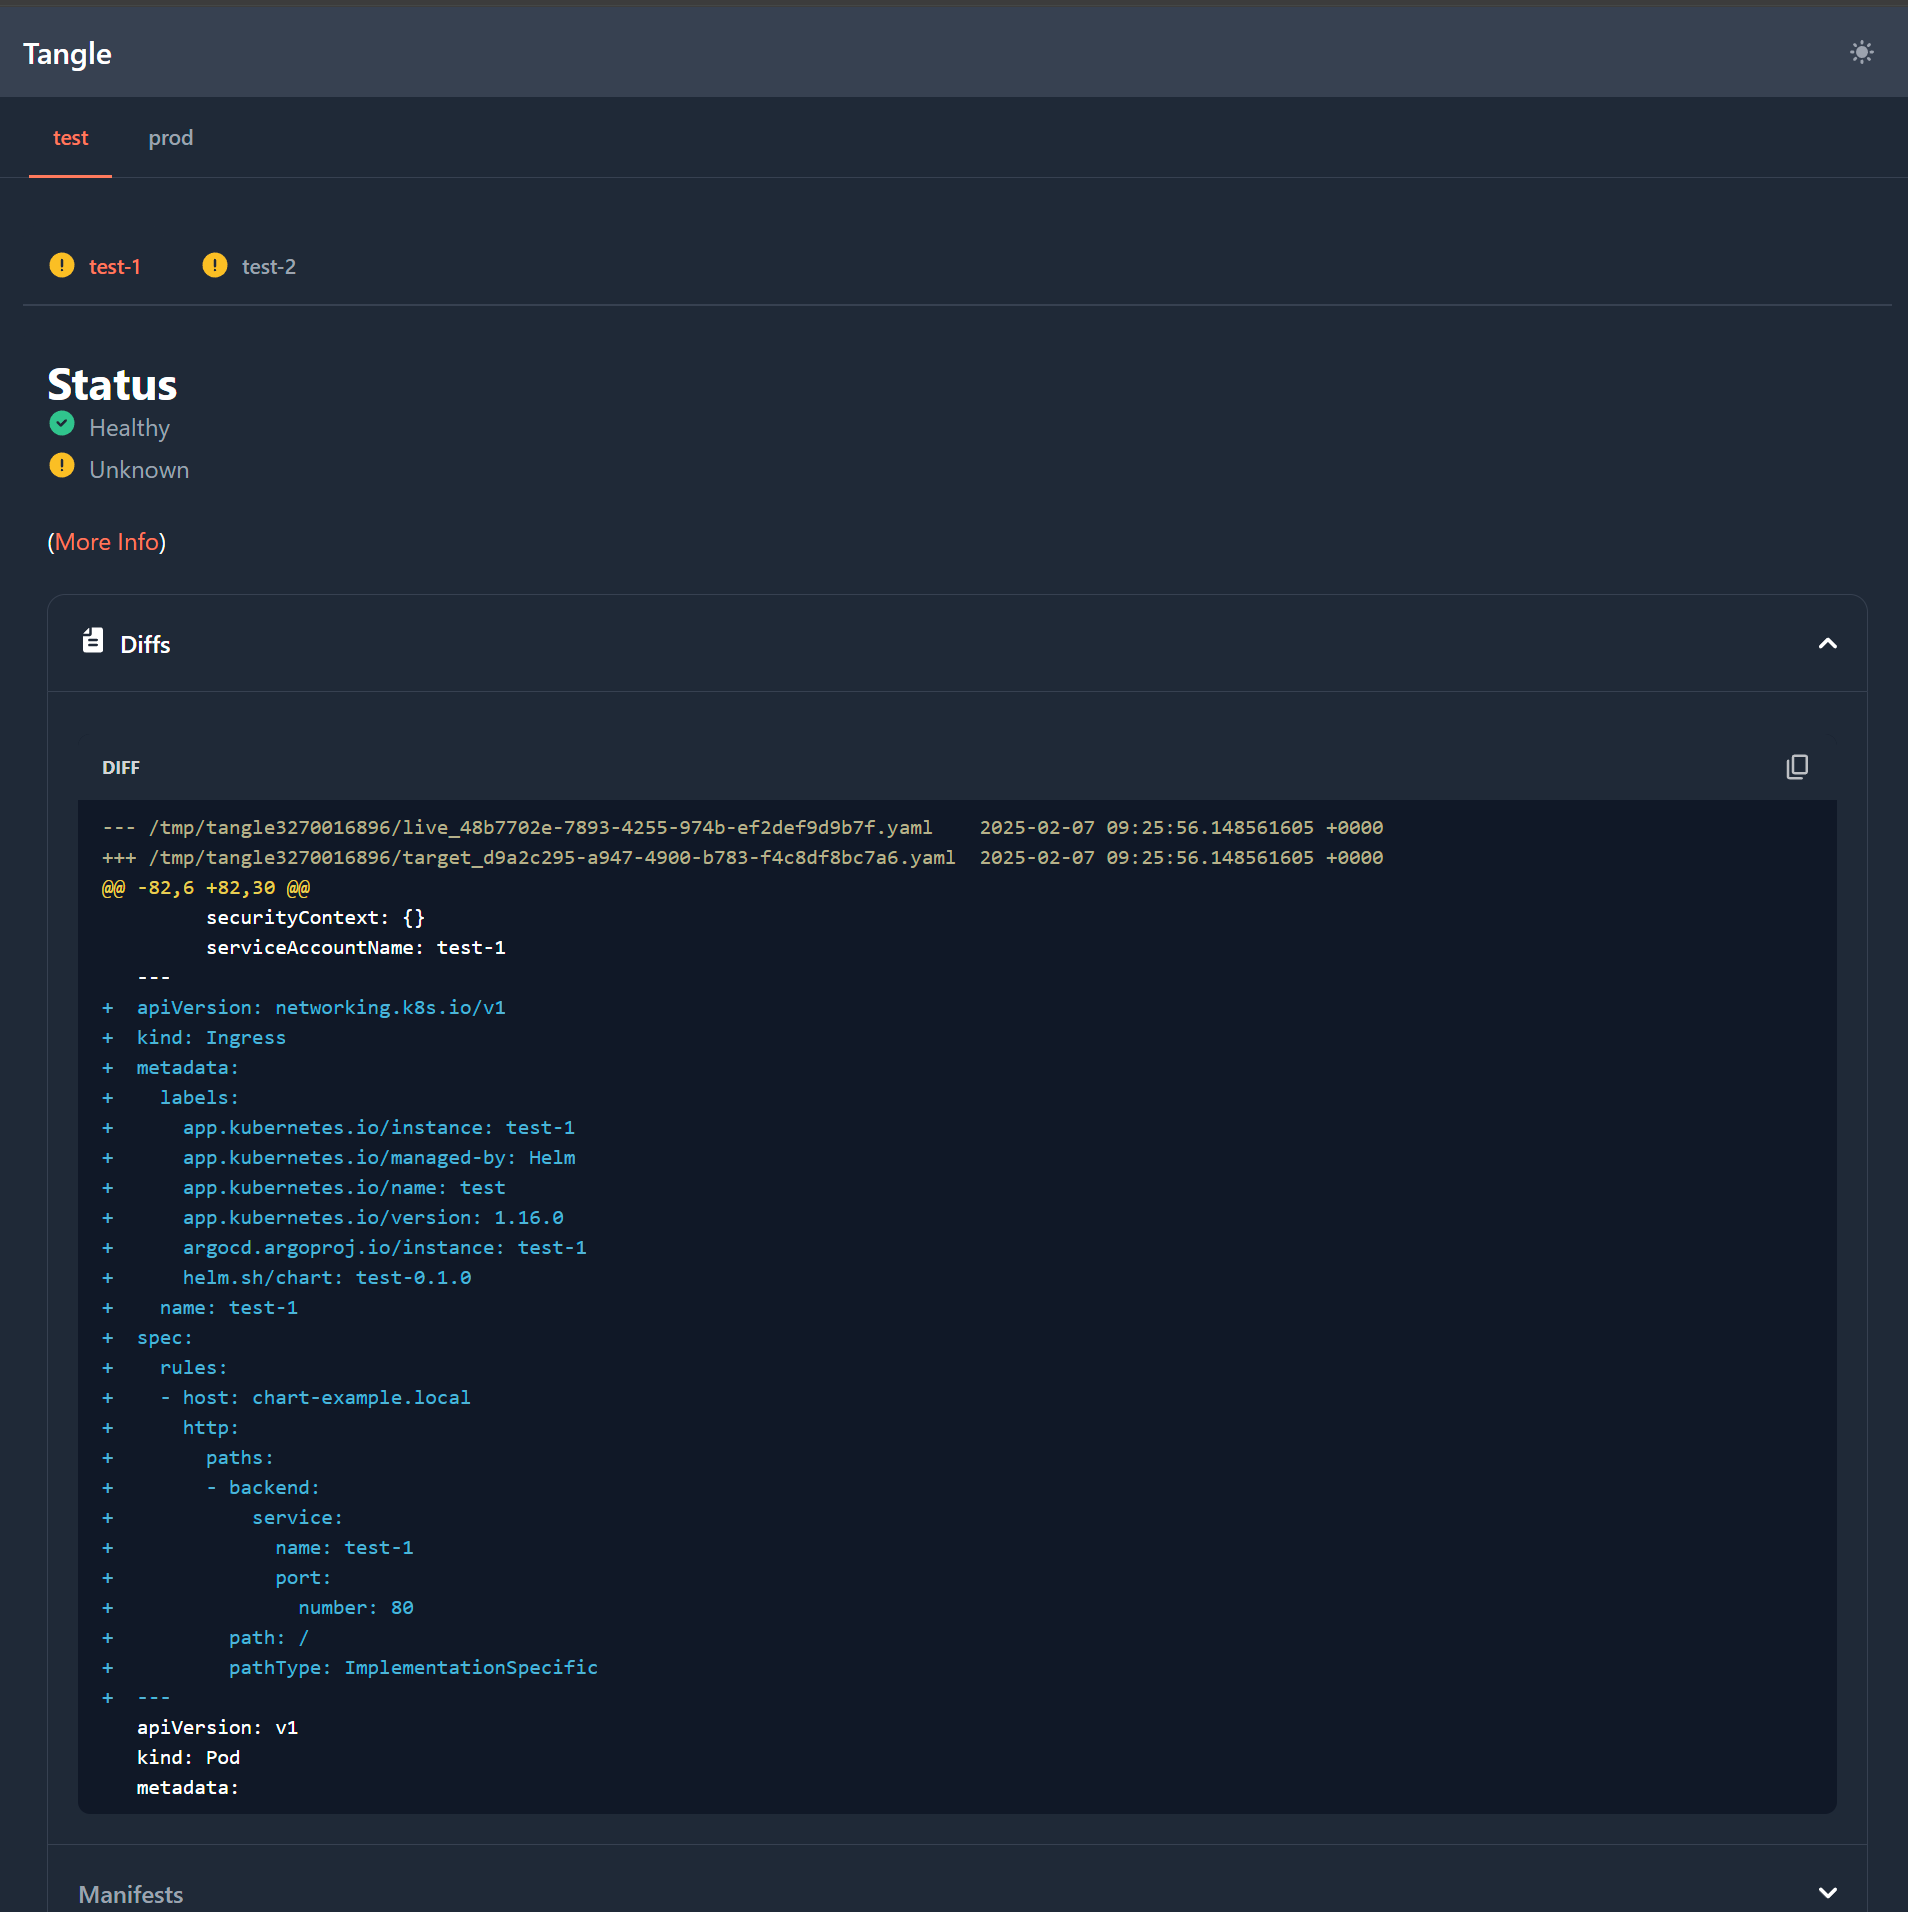
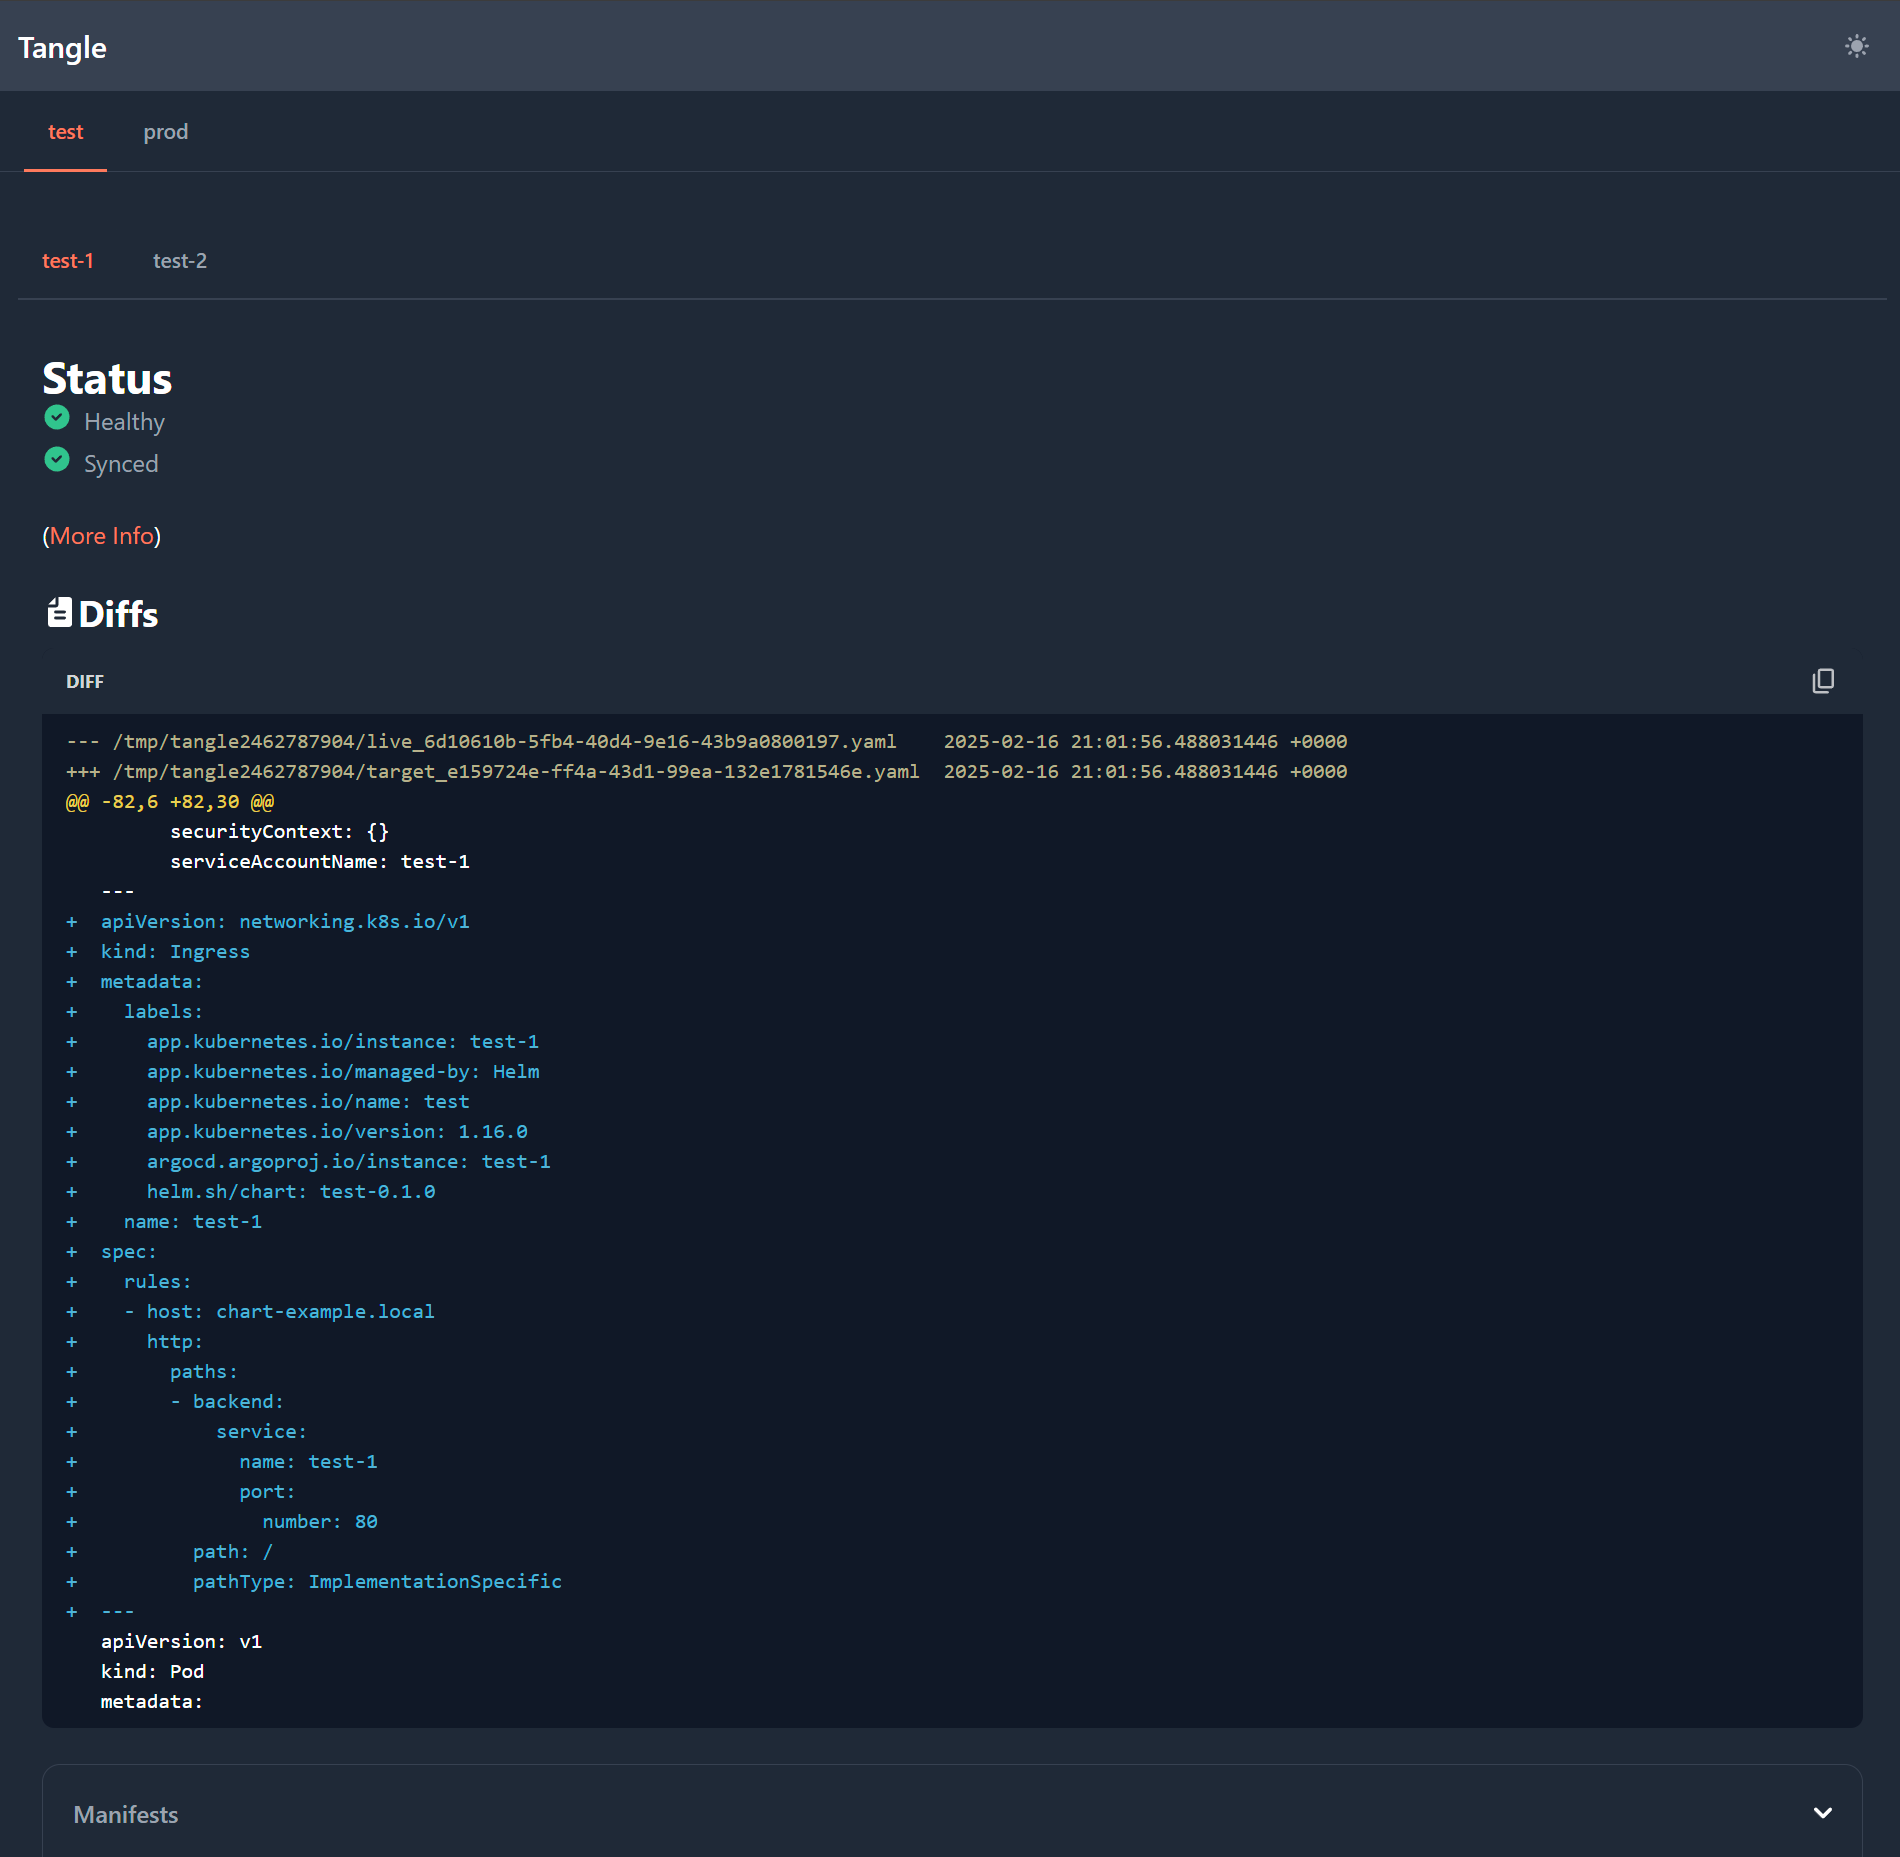
Load diffs in parallel and improve general loading ux. (#111)

diff --git a/web/src/lib/components/AppManifests.svelte b/web/src/lib/components/AppManifests.svelte
@@ -1,10 +1,9 @@
 <script lang="ts">
-	import { AccordionItem, Accordion, Alert, Card, Spinner } from 'flowbite-svelte';
+	import { AccordionItem, Accordion, Alert, Card, Spinner, Heading, P } from 'flowbite-svelte';
 	import { InfoCircleSolid, FileLinesSolid } from 'flowbite-svelte-icons';
 	import { CodeBlock } from 'svhighlight';
 	import 'highlight.js/styles/an-old-hope.css';
 
-	import { onMount } from 'svelte';
 	import { writable } from 'svelte/store';
 	import { type ApplicationDiff } from '$lib/data';
 	import TangleAPIClient from '$lib/client';
@@ -26,11 +25,9 @@
 	});
 
 	var client = new TangleAPIClient();
-
-	onMount(() => {
-		client.getApplicationDiff(argocd, appName, liveRef, targetRef).then((result) => {
-			diffData.set(result);
-		});
+	// Start generating diffs immediately b/c this can take a while.
+	client.getApplicationDiff(argocd, appName, liveRef, targetRef).then((result) => {
+		diffData.set(result);
 	});
 </script>
 
@@ -46,14 +43,14 @@
 			</Alert>
 		</Card>
 	{:else if $diffData.loaded}
+		<Heading tag="h4" class="flex items-center"><FileLinesSolid size="lg" />Diffs</Heading>
+		{#if $diffData.response.diffs.length === 0}
+			<P italic>No diffs found.</P>
+		{:else}
+			<CodeBlock language="diff" code={$diffData.response.diffs} showLineNumbers={false} />
+		{/if}
+		<br />
 		<Accordion>
-			<AccordionItem open={$diffData.response.diffs.length > 0}>
-				<span slot="header" class="text-base flex gap-2">
-					<FileLinesSolid class="w-5 h-5" />
-					<span>Diffs</span>
-				</span>
-				<CodeBlock language="diff" code={$diffData.response.diffs} showLineNumbers={false} />
-			</AccordionItem>
 			<AccordionItem>
 				<span slot="header">Manifests</span>
 				<CodeBlock language="yaml" code={$diffData.response.targetManifests} />
@@ -61,5 +58,8 @@
 		</Accordion>
 	{/if}
 {:else}
+	<div class="flex justify-center m-2">
+		<P italic>Loading manifests & diffs. Please be patient - this can take a bit!</P>
+	</div>
 	<div class="text-center"><Spinner /></div>
 {/if}

diff --git a/web/src/routes/diffs/+page.svelte b/web/src/routes/diffs/+page.svelte
@@ -79,6 +79,8 @@
 		{/each}
 	</Tabs>
 {:else}
-	<br />
+	<div class="flex justify-center m-2">
+		<P italic>Loading Applications...</P>
+	</div>
 	<div class="text-center"><Spinner /></div>
 {/if}
